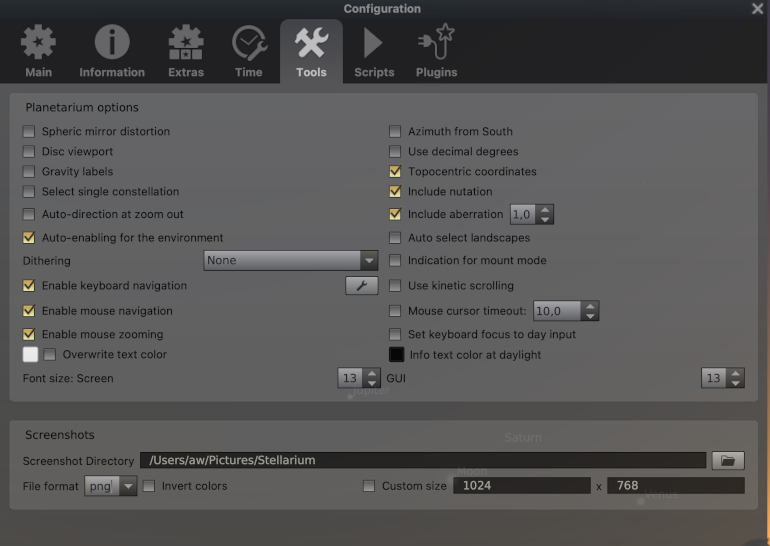
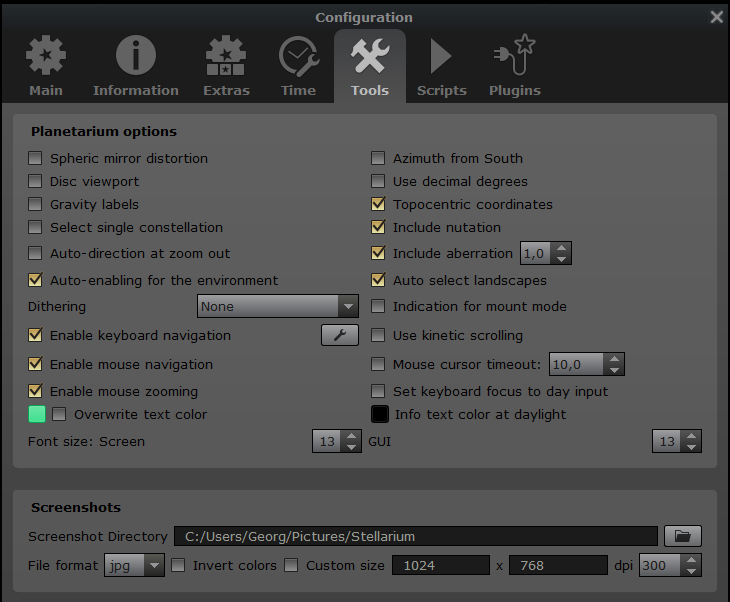
Add setting of screenshot dpi

Changed region(s): [[0.0, 0.0, 1.0, 1.0]]

diff --git a/src/StelMainView.hpp b/src/StelMainView.hpp
@@ -54,6 +54,7 @@ class StelMainView : public QGraphicsView
 	Q_PROPERTY(bool flagUseCustomScreenshotSize READ getFlagUseCustomScreenshotSize WRITE setFlagUseCustomScreenshotSize NOTIFY flagUseCustomScreenshotSizeChanged)
 	Q_PROPERTY(int  customScreenshotWidth      READ getCustomScreenshotWidth      WRITE setCustomScreenshotWidth      NOTIFY customScreenshotWidthChanged)
 	Q_PROPERTY(int  customScreenshotHeight     READ getCustomScreenshotHeight     WRITE setCustomScreenshotHeight     NOTIFY customScreenshotHeightChanged)
+	Q_PROPERTY(int  screenshotDpi	           READ getScreenshotDpi              WRITE setScreenshotDpi              NOTIFY screenshotDpiChanged)
 	Q_PROPERTY(QString screenShotFormat        READ getScreenshotFormat           WRITE setScreenshotFormat           NOTIFY screenshotFormatChanged)
 	Q_PROPERTY(bool flagCursorTimeout          READ getFlagCursorTimeout          WRITE setFlagCursorTimeout          NOTIFY flagCursorTimeoutChanged)
 	Q_PROPERTY(double cursorTimeout            READ getCursorTimeout              WRITE setCursorTimeout              NOTIFY cursorTimeoutChanged)
@@ -148,12 +149,16 @@ public slots:
 	void setFlagUseCustomScreenshotSize(bool b) {flagUseCustomScreenshotSize=b; emit flagUseCustomScreenshotSizeChanged(b);}
 	//! Get custom screenshot width
 	int getCustomScreenshotWidth() const {return customScreenshotWidth;}
-	//! Set whether custom size should be used for screenshots
+	//! Set custom width for screenshots
 	void setCustomScreenshotWidth(int width) {customScreenshotWidth=width; emit customScreenshotWidthChanged(width);}
 	//! Get custom screenshot height
 	int getCustomScreenshotHeight() const {return customScreenshotHeight;}
-	//! Set whether custom size should be used for screenshots
+	//! Set custom height for screenshots
 	void setCustomScreenshotHeight(int height) {customScreenshotHeight=height; emit customScreenshotHeightChanged(height);}
+	//! Get screenshot DPI. This is only an entry in the screenshot image metadata. The raster content is not influenced.
+	int getScreenshotDpi() const {return screenshotDpi;}
+	//! Set screenshot DPI. This is only an entry in the screenshot image metadata. The raster content is not influenced.
+	void setScreenshotDpi(int dpi);
 	//! Get screenshot magnification. This should be used by StarMgr, text drawing and other elements which may
 	//! want to enlarge their output in screenshots to keep them visible.
 	float getCustomScreenshotMagnification() const {return customScreenshotMagnification;}
@@ -208,6 +213,8 @@ protected:
 
 	bool eventFilter(QObject *obj, QEvent *event) override;
 signals:
+	//! emitted when window size has changed
+	void sizeChanged(const QSize &sz);
 	//! emitted when saveScreenShot is requested with saveScreenShot().
 	//! doScreenshot() does the actual work (it has to do it in the main
 	//! thread, where as saveScreenShot() might get called from another one.
@@ -226,6 +233,7 @@ signals:
 	void flagUseCustomScreenshotSizeChanged(bool use);
 	void customScreenshotWidthChanged(int width);
 	void customScreenshotHeightChanged(int height);
+	void screenshotDpiChanged(int dpi);
 	void screenshotFormatChanged(QString format);
 
 	void skyBackgroundColorChanged(Vec3f color);
@@ -287,6 +295,7 @@ private:
 	bool flagUseCustomScreenshotSize; //! if true, the next 2 values are observed for screenshots.
 	int customScreenshotWidth;            //! used when flagCustomResolutionScreenshots==true
 	int customScreenshotHeight;           //! used when flagCustomResolutionScreenshots==true
+	int screenshotDpi;                //! Image metadata entry for DPI. This does not influence the screenshot raster image content in any way, but some workflows like to have a configurable entry.
 	float customScreenshotMagnification;  //! tracks the magnification factor customScreenshotHeight/NormalWindowHeight
 	QString screenShotPrefix;
 	QString screenShotFormat; //! file type like "png" or "jpg".

diff --git a/src/gui/ConfigurationDialog.cpp b/src/gui/ConfigurationDialog.cpp
@@ -375,6 +375,16 @@ void ConfigurationDialog::createDialogContent()
 	ui->customScreenshotHeightLineEdit->setValidator(new MinMaxIntValidator(128, 16384, this));
 	connectIntProperty(ui->customScreenshotWidthLineEdit, "MainView.customScreenshotWidth");
 	connectIntProperty(ui->customScreenshotHeightLineEdit, "MainView.customScreenshotHeight");
+	connectIntProperty(ui->dpiSpinBox, "MainView.screenshotDpi");
+	StelMainView *mainView=static_cast<StelMainView *>(StelApp::getInstance().parent());
+	connect(mainView, SIGNAL(screenshotDpiChanged(int)), this, SLOT(updateDpiTooltip()));
+	connect(mainView, SIGNAL(flagUseCustomScreenshotSizeChanged(bool)), this, SLOT(updateDpiTooltip()));
+	connect(mainView, SIGNAL(customScreenshotWidthChanged(int)), this, SLOT(updateDpiTooltip()));
+	connect(mainView, SIGNAL(customScreenshotHeightChanged(int)), this, SLOT(updateDpiTooltip()));
+	connect(mainView, SIGNAL(customScreenshotHeightChanged(int)), this, SLOT(updateDpiTooltip()));
+	connect(mainView, SIGNAL(sizeChanged(const QSize&)), this, SLOT(updateDpiTooltip()));
+	updateDpiTooltip();
+
 	connectBoolProperty(ui->autoEnableEnvironmentCheckBox, "LandscapeMgr.flagEnvironmentAutoEnabling");
 	connectBoolProperty(ui->autoChangeLandscapesCheckBox, "LandscapeMgr.flagLandscapeAutoSelection");
 
@@ -758,6 +768,30 @@ void ConfigurationDialog::selectScreenshotDir()
 		// nop
 		// this will happen when people are only half way through typing dirs
 	}
+}
+
+void ConfigurationDialog::updateDpiTooltip()
+{
+	StelMainView *mainView=static_cast<StelMainView *>(StelApp::getInstance().parent());
+	const QString qMM=qc_("mm", "millimeters");
+	const int dpi=mainView->getScreenshotDpi();
+	double mmX, mmY;
+	if (mainView->getFlagUseCustomScreenshotSize())
+	{
+		mmX=mainView->getCustomScreenshotWidth()*25.4/dpi;
+		mmY=mainView->getCustomScreenshotHeight()*25.4/dpi;
+	}
+	else
+	{
+		mmX=mainView->window()->width()*25.4/dpi;
+		mmY=mainView->window()->height()*25.4/dpi;
+	}
+
+	ui->dpiSpinBox->setToolTip("<html><head/><body><p>" +
+				   q_("Dots per Inch (for image metadata).") + "</p><p>" +
+				   q_("Current designated print size") +
+				   QString(": %1&times;%2 %3").arg(QString::number(mmX, 'f', 1), QString::number(mmY, 'f', 1), qMM) +
+				   + "</p></body></html>");
 }
 
 // Store FOV and viewing dir.

diff --git a/src/StelMainView.cpp b/src/StelMainView.cpp
@@ -552,6 +552,7 @@ StelMainView::StelMainView(QSettings* settings)
 	  flagUseCustomScreenshotSize(false),
 	  customScreenshotWidth(1024),
 	  customScreenshotHeight(768),
+	  screenshotDpi(72),
 	  customScreenshotMagnification(1.0f),
 	  screenShotPrefix("stellarium-"),
 	  screenShotFormat("png"),
@@ -667,6 +668,7 @@ void StelMainView::resizeEvent(QResizeEvent* event)
 		rootItem->setSize(sz);
 		if(guiItem)
 			guiItem->setGeometry(QRectF(0.0,0.0,sz.width(),sz.height()));
+		emit sizeChanged(sz);
 	}
 	QGraphicsView::resizeEvent(event);
 }
@@ -873,6 +875,7 @@ void StelMainView::init()
 	flagUseCustomScreenshotSize=configuration->value("main/screenshot_custom_size", false).toBool();
 	customScreenshotWidth=configuration->value("main/screenshot_custom_width", 1024).toInt();
 	customScreenshotHeight=configuration->value("main/screenshot_custom_height", 768).toInt();
+	screenshotDpi=configuration->value("main/screenshot_dpi", 72).toInt();
 	setFlagCursorTimeout(configuration->value("gui/flag_mouse_cursor_timeout", false).toBool());
 	setCursorTimeout(configuration->value("gui/mouse_cursor_timeout", 10.f).toDouble());
 	setMaxFps(configuration->value("video/maximum_fps",10000.f).toFloat());
@@ -1504,6 +1507,14 @@ void StelMainView::setScreenshotFormat(const QString filetype)
 		qDebug() << "Invalid filetype for screenshot: " << filetype;
 	}
 }
+
+void StelMainView::setScreenshotDpi(int dpi)
+{
+	screenshotDpi=dpi;
+	StelApp::getInstance().getSettings()->setValue("main/screenshot_dpi", dpi);
+	emit screenshotDpiChanged(dpi);
+}
+
 void StelMainView::saveScreenShot(const QString& filePrefix, const QString& saveDir, const bool overwrite)
 {
 	screenShotPrefix = filePrefix;
@@ -1707,6 +1718,10 @@ void StelMainView::doScreenshot(void)
 				break;
 		}
 	}
+
+	// Set preferred image resolution (for some printing workflows)
+	im.setDotsPerMeterX(qRound(screenshotDpi*100./2.54));
+	im.setDotsPerMeterY(qRound(screenshotDpi*100./2.54));
 	qDebug() << "INFO Saving screenshot in file: " << QDir::toNativeSeparators(shotPath.filePath());
 	QImageWriter imageWriter(shotPath.filePath());
 	if (screenShotFormat=="tif")

diff --git a/guide/app_config_ini.tex b/guide/app_config_ini.tex
@@ -593,7 +593,8 @@ screenshot\_dir             & string & Path for saving screenshots\\%\midrule
 screenshot\_format          & string & File format. One of \texttt{png|jpg|jpeg|tif|tiff| webp|pbm|pgm|ppm|xbm|xpm|ico}\\
 screenshot\_custom\_size    & bool   & \emph{true} if you want to specify particular dimensions next:\\
 screenshot\_custom\_width   & int    & custom width of screenshots. Max.\ available size is hardware dependent!\\
-screenshot\_custom\_height  & int    & custom height of screenshots. Max.\ available size is hardware dependent!\\\midrule
+screenshot\_custom\_height  & int    & custom height of screenshots. Max.\ available size is hardware dependent!\\
+screenshot\_dpi             & int    & DPI setting for screenshots. \\\midrule
 version                     & string & Version of Stellarium. This parameter may be used to detect necessary changes in config.ini file, do not edit.\\%\midrule
 use\_separate\_output\_file & bool   & Set to \emph{true} if you want to create a new file for script output for each start of Stellarium\\%\midrule
 restore\_defaults           & bool   & If \emph{true}, Stellarium will restore default settings at startup. 

diff --git a/src/gui/ConfigurationDialog.hpp b/src/gui/ConfigurationDialog.hpp
@@ -108,6 +108,13 @@ private slots:
 	//! value will be changed, but not saved to config file.
 	void browseForScreenshotDir();
 	void selectScreenshotDir();
+	//! Update tooltip of the dpi spinner to tell users the final print size at current dpi
+	//! This is called
+	//! - when DPI changes
+	//! - when custom size is toggled
+	//! - when window is resized
+	//! - when custom screenshot size is changed
+	void updateDpiTooltip();
 
 	//! Save the current viewing options including location and sky culture
 	//! This doesn't include the current viewing direction, landscape, time and FOV since those

diff --git a/guide/ch_interface.tex b/guide/ch_interface.tex
@@ -393,6 +393,10 @@ platform and version of the underlying Qt framework. Notable formats are PNG (lo
 JPEG (higher quality JPG), BMP (Windows Bitmap), WEBP, TIF (LZW compressed), TIFF (uncompressed),
 PBM, PGM, PPM, XBM, XPM, and ICO (thumbnails).
 
+Some printing workflows require particular DPI (dots per inch)
+settings stored in the screenshots. \newFeature{0.22.0} You can
+configure DPI which will be stored in the image metadata. The intended
+print size in \mm\ is shown in the tooltip of the dpi spinner.
 
 \subsection{The Scripts Tab}
 \label{sec:gui:configuration:scripts}
